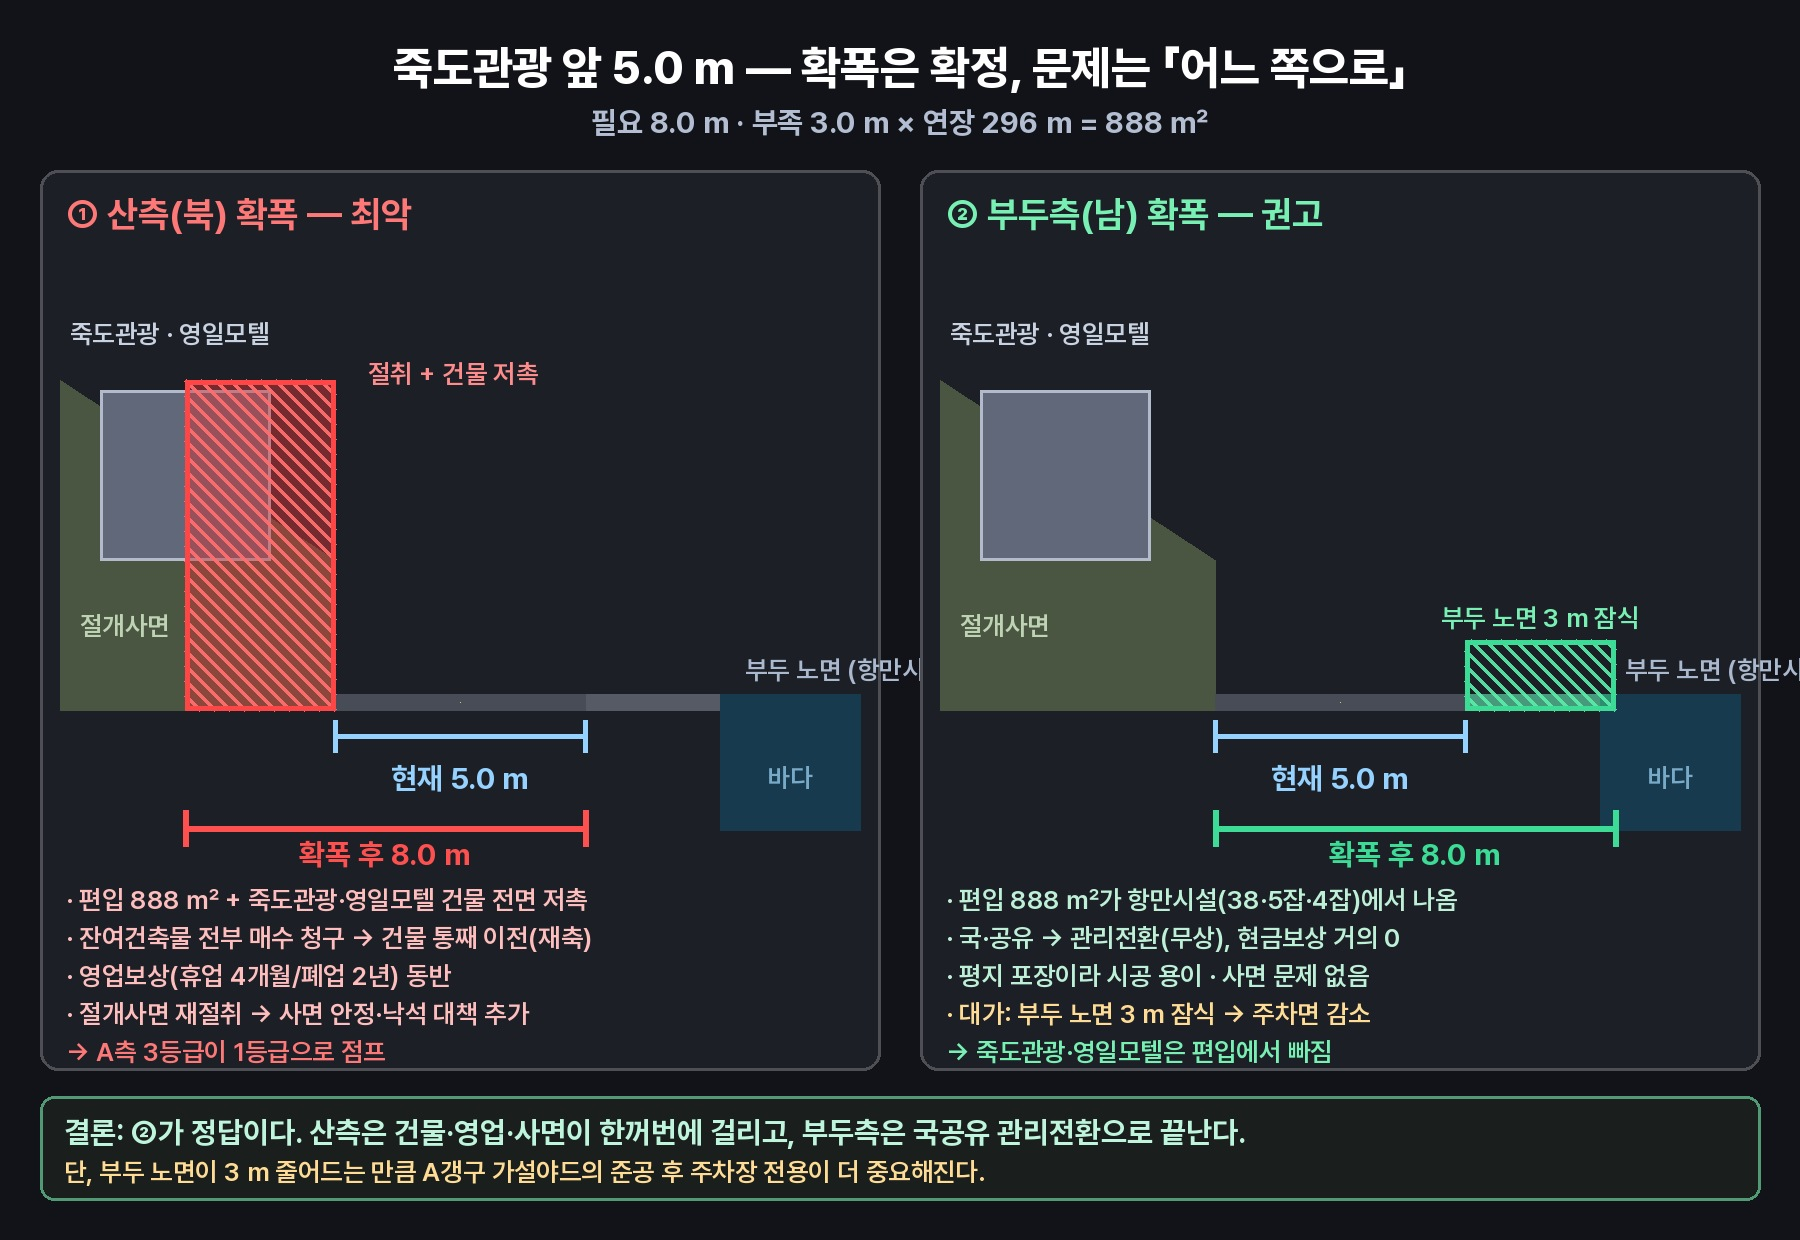
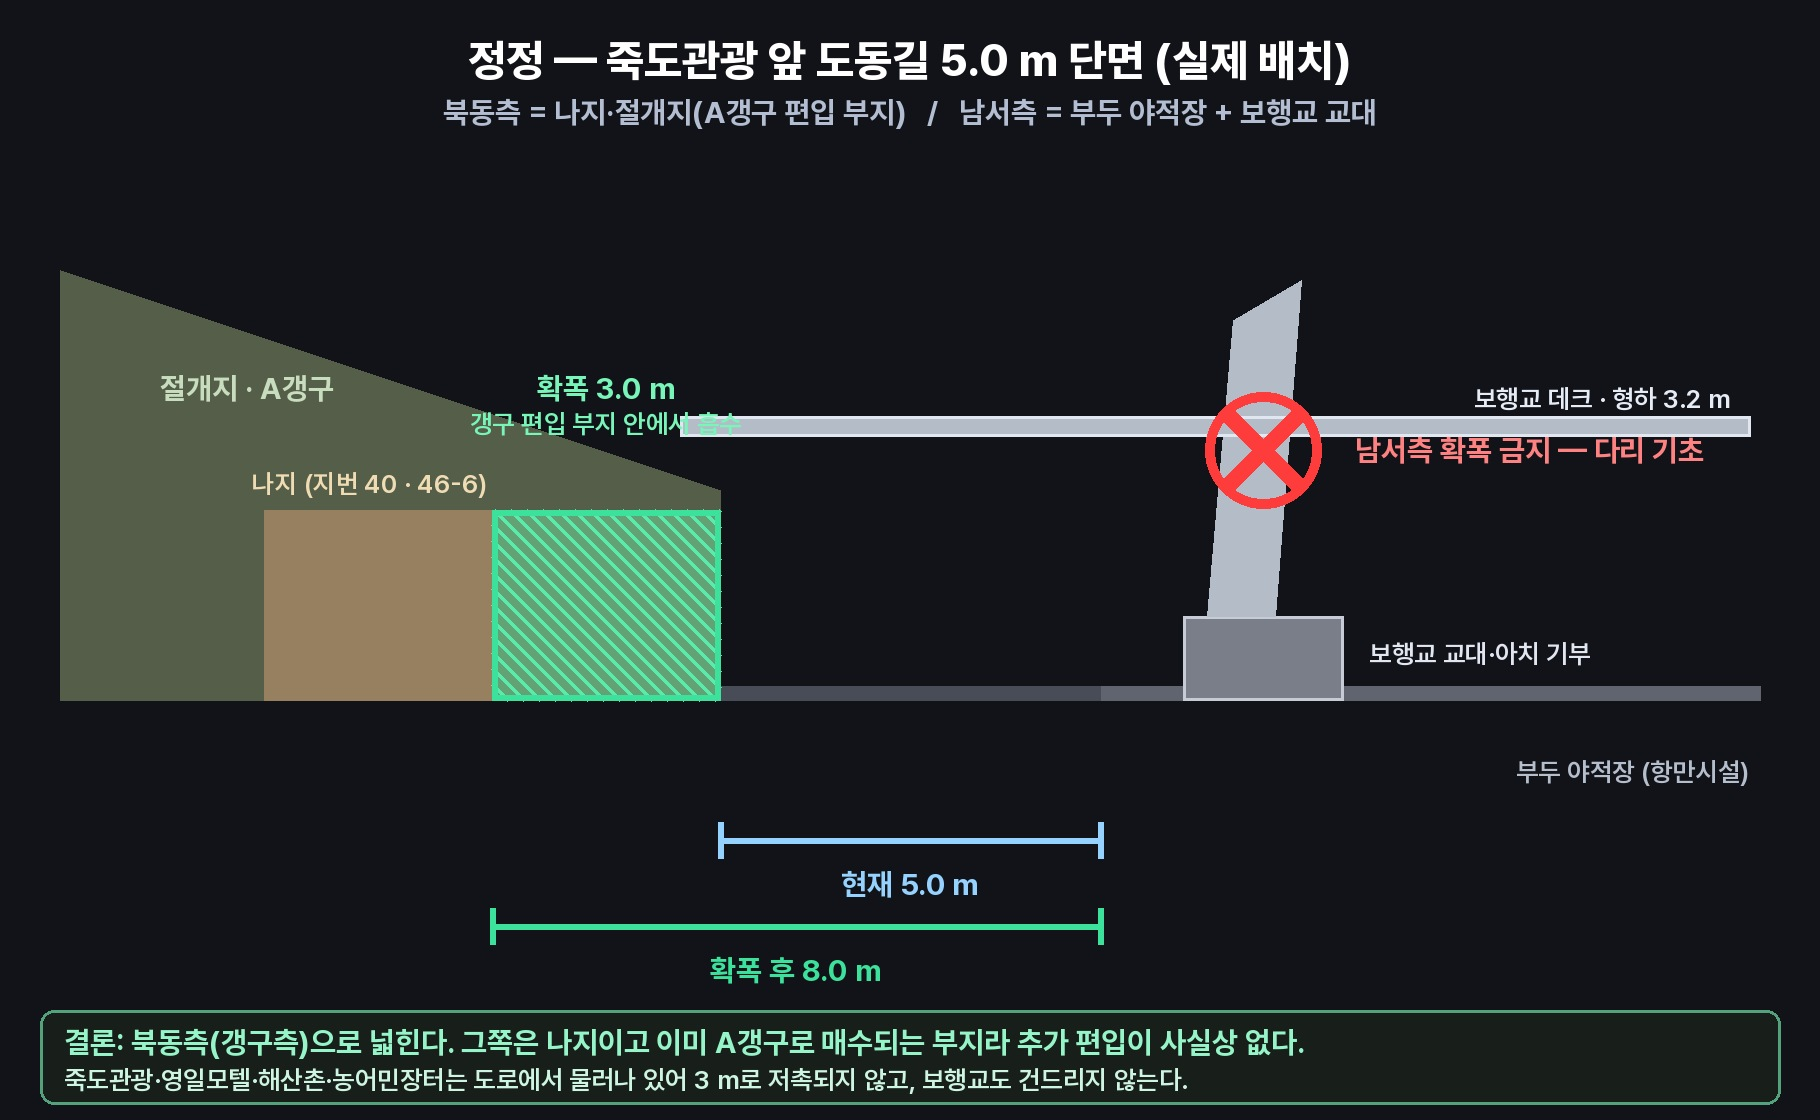
docs(ulleung-90): 13차 개정 · 12차 단면 오류 정정, 확폭은 갱구 부지에서 흡수
고해상 위성으로 죽도관광 앞 도동길의 양측 배치가 12차 가정과 다름이
확인됐다.

- 도로 남서측은 바다가 아니라 부두 야적장 + 보행교 교대·아치 기부다.
- 도로 북동측은 죽도관광 건물이 아니라 나지(지번 40·46-6), 곧 A갱구
  편입 부지 그 자체다. 죽도관광·영일모텔·해산촌·농어민장터는 도로에서
  물러나 있어 3 m 확폭으로 저촉되지 않는다.

따라서 확폭 방향은 북동측(갱구측)이고, 12차의 결론(부두측 확폭)과
경고(죽도관광·영일모텔의 1등급 점프)는 철회한다. 남서측은 보행교 기초를
직접 침범해 쓸 수 없고, 북동측 888 ㎡는 이미 A갱구로 매수되는 부지 안에서
나오므로 별도 편입이 아니라 같은 부지의 용도 배분이다.

A측 편입 최종: 지번 40·46-6·44·46-8이 갱구·야드·확폭분을 모두 흡수하고,
죽도관광·영일모텔·해산촌·농어민장터는 편입 없음, 보행교는 무관, 부두
야적장은 집산로 회랑만 관리전환. A측 편입은 갱구 원(0~60 m)에서 닫힌다.

maps/90_widen_direction.jpg 교체, 렌더러 dir.py 갱신.

Claude-Session: https://claude.ai/code/session_01WLmtZkRJypXJ4dZRWrn4rv

Changed region(s): [[0.0311, 0.25, 1.0, 1.0], [0.0311, 0.0312, 0.9644, 0.1875], [0.5289, 0.25, 0.6533, 0.2812]]

diff --git a/docs/research/ulleung-gukjido-90/dir.py b/docs/research/ulleung-gukjido-90/dir.py
@@ -2,74 +2,55 @@
 from PIL import Image, ImageDraw, ImageFont
 W_="/tmp/claude-0/-home-user-desktop-tutorial/a49bfc76-9aab-5342-b75f-19862b631a3f/scratchpad"
 F=lambda n,w="Bold": ImageFont.truetype(f"{W_}/fonts/Pretendard-{w}.ttf",n)
-f22,f26,f30,f36,f46=F(22,"SemiBold"),F(26,"SemiBold"),F(30),F(36),F(46,"ExtraBold")
-W,H=1800,1240
+f24,f26,f30,f34,f44=F(24,"SemiBold"),F(26,"SemiBold"),F(30),F(34),F(44,"ExtraBold")
+W,H=1820,1120
 im=Image.new("RGB",(W,H),(17,19,24)); d=ImageDraw.Draw(im,"RGBA")
-PANEL=(28,31,38); ROCK=(74,86,66); BLD=(96,104,122); QUAY=(86,90,100); SEA=(24,58,78)
-def hatch(x0,y0,x1,y1,col,step=15,w=3):
+ROCK=(84,94,72); BARE=(150,128,96); YARD=(96,100,110); STEEL=(180,188,200); FDN=(122,126,136)
+def hatch(x0,y0,x1,y1,col,step=16,w=3):
     k=-(y1-y0)
-    while k < (x1-x0):
-        d.line([max(x0,x0+k), y0+max(0,-k), min(x1,x0+k+(y1-y0)), y0+min(y1-y0,(x1-x0)-k)],fill=col,width=w); k+=step
+    while k<(x1-x0):
+        d.line([max(x0,x0+k),y0+max(0,-k),min(x1,x0+k+(y1-y0)),y0+min(y1-y0,(x1-x0)-k)],fill=col,width=w); k+=step
+d.text((W//2,34),"정정 — 죽도관광 앞 도동길 5.0 m 단면 (실제 배치)",font=f44,fill=(255,255,255),anchor="ma")
+d.text((W//2,94),"북동측 = 나지·절개지(A갱구 편입 부지)   /   남서측 = 부두 야적장 + 보행교 교대",font=f30,fill=(180,190,210),anchor="ma")
 
-def panel(ox,oy,title,tcol,side,note):
-    PW,PH=840,900
-    d.rounded_rectangle([ox,oy,ox+PW,oy+PH],18,fill=PANEL,outline=(255,255,255,55),width=3)
-    d.text((ox+26,oy+22),title,font=f36,fill=tcol)
-    SC=50; base=oy+540; cx=ox+PW//2; half=5.0*SC/2   # 현재 5.0 m
-    # 산측(좌) : 절개사면 + 죽도관광
-    d.polygon([(ox+20,base),(cx-half,base),(cx-half,base-150),(ox+20,base-330)],fill=ROCK)
-    d.rectangle([ox+60,base-320,ox+230,base-150],fill=BLD,outline=(200,210,225,200),width=3)
-    d.text((ox+130,base-392),"죽도관광 · 영일모텔",font=f26,fill=(200,210,225),anchor="ma")
-    d.text((ox+40,base-100),"절개사면",font=f26,fill=(190,210,180))
-    # 부두측(우) : 평지 포장 + 바다
-    d.rectangle([cx+half,base-16,ox+PW-160,base],fill=QUAY)
-    d.rectangle([ox+PW-160,base-16,ox+PW-20,base+120],fill=SEA)
-    d.text((cx+half+160,base-56),"부두 노면 (항만시설)",font=f26,fill=(170,185,205))
-    d.text((ox+PW-90,base+52),"바다",font=f26,fill=(120,170,200),anchor="ma")
-    # 노면
-    d.rectangle([cx-half,base-16,cx+half,base],fill=(72,76,86))
-    d.line([cx,base-8,cx,base-8],fill=(230,220,120,220),width=4)
-    # 확폭 3.0 m
-    t=3.0*SC
-    if side=="rock":
-        x0,x1=cx-half-t,cx-half
-        d.rectangle([x0,base-330,x1,base],fill=(214,54,54,120)); hatch(x0,base-330,x1,base,(255,110,110,240))
-        d.rectangle([x0,base-330,x1,base],outline=(255,70,70,255),width=5)
-        d.text((x1+118,base-352),"절취 + 건물 저촉",font=f26,fill=(255,140,140),anchor="ma")
-    else:
-        x0,x1=cx+half,cx+half+t
-        d.rectangle([x0,base-16,x1,base],fill=(60,200,140,150)); hatch(x0,base-70,x1,base,(90,235,170,235))
-        d.rectangle([x0,base-70,x1,base],outline=(60,220,150,255),width=5)
-        d.text(((x0+x1)/2,base-108),"부두 노면 3 m 잠식",font=f26,fill=(120,240,180),anchor="ma")
-    # 치수
-    y=base+26
-    d.line([cx-half,y,cx+half,y],fill=(150,210,255,255),width=5)
-    for x in (cx-half,cx+half): d.line([x,y-16,x,y+16],fill=(150,210,255,255),width=5)
-    d.text((cx,y+24),"현재 5.0 m",font=f30,fill=(150,210,255),anchor="ma")
-    L,R=(cx-half-t,cx+half) if side=="rock" else (cx-half,cx+half+t)
-    c=(255,80,80,255) if side=="rock" else (60,220,150,255)
-    d.line([L,y+92,R,y+92],fill=c,width=6)
-    for x in (L,R): d.line([x,y+74,x,y+110],fill=c,width=6)
-    d.text(((L+R)/2,y+100),"확폭 후 8.0 m",font=f30,fill=c[:3],anchor="ma")
-    yy=oy+PH-186
-    for t2,c2 in note:
-        d.text((ox+26,yy),t2,font=f26,fill=c2); yy+=38
-
-d.text((W//2,40),"죽도관광 앞 5.0 m — 확폭은 확정, 문제는 「어느 쪽으로」",font=f46,fill=(255,255,255),anchor="ma")
-d.text((W//2,104),"필요 8.0 m · 부족 3.0 m × 연장 296 m = 888 ㎡",font=f30,fill=(180,190,210),anchor="ma")
-panel(40,170,"① 산측(북) 확폭 — 최악",(255,120,120),"rock",
- [("· 편입 888 ㎡ + 죽도관광·영일모텔 건물 전면 저촉",(255,190,190)),
-  ("· 잔여건축물 전부 매수 청구 → 건물 통째 이전(재축)",(255,190,190)),
-  ("· 영업보상(휴업 4개월/폐업 2년) 동반",(255,190,190)),
-  ("· 절개사면 재절취 → 사면 안정·낙석 대책 추가",(255,190,190)),
-  ("→ A측 3등급이 1등급으로 점프",(255,120,120))])
-panel(920,170,"② 부두측(남) 확폭 — 권고",(120,240,180),"quay",
- [("· 편입 888 ㎡가 항만시설(38·5잡·4잡)에서 나옴",(190,240,215)),
-  ("· 국·공유 → 관리전환(무상), 현금보상 거의 0",(190,240,215)),
-  ("· 평지 포장이라 시공 용이 · 사면 문제 없음",(190,240,215)),
-  ("· 대가: 부두 노면 3 m 잠식 → 주차면 감소",(255,220,150)),
-  ("→ 죽도관광·영일모텔은 편입에서 빠짐",(120,240,180))])
-d.rounded_rectangle([40,1096,W-40,1200],14,fill=(26,30,28),outline=(120,240,180,150),width=3)
-d.text((64,1114),"결론: ②가 정답이다. 산측은 건물·영업·사면이 한꺼번에 걸리고, 부두측은 국공유 관리전환으로 끝난다.",font=f30,fill=(190,245,220))
-d.text((64,1156),"단, 부두 노면이 3 m 줄어드는 만큼 A갱구 가설야드의 준공 후 주차장 전용이 더 중요해진다.",font=f26,fill=(255,220,150))
-im.save(f"{W_}/out/92_widen_side.jpg",quality=93); print("ok")
+SC=76; base=700; cx=W//2; half=5.0*SC/2
+# 북동(좌): 절개지 + 나지 = 갱구 부지
+d.polygon([(60,base),(cx-half,base),(cx-half,base-210),(60,base-430)],fill=ROCK)
+d.rectangle([cx-half-6.0*SC,base-190,cx-half,base],fill=BARE)
+d.text((cx-half-4.6*SC,base-232),"나지 (지번 40 · 46-6)",font=f26,fill=(240,220,180),anchor="ma")
+d.text((160,base-330),"절개지 · A갱구",font=f30,fill=(200,220,190))
+# 남서(우): 부두 야적장 + 다리
+d.rectangle([cx+half,base-14,W-60,base],fill=YARD)
+d.text((W-70,base+56),"부두 야적장 (항만시설)",font=f26,fill=(180,190,205),anchor="ra")
+fx0,fx1=cx+half+1.1*SC, cx+half+3.2*SC
+d.rectangle([fx0,base-84,fx1,base],fill=FDN,outline=(215,220,230,210),width=3)
+d.text((fx1+26,base-46),"보행교 교대·아치 기부",font=f26,fill=(225,230,240),anchor="lm")
+d.polygon([(fx0+24,base-84),(fx0+50,base-380),(fx0+118,base-420),(fx0+92,base-84)],fill=STEEL)
+dy=base-3.2*SC-20
+d.rectangle([cx-half-40,dy-20,W-70,dy],fill=STEEL,outline=(232,238,248,220),width=3)
+d.text((W-90,dy-54),"보행교 데크 · 형하 3.2 m",font=f26,fill=(230,236,246),anchor="ra")
+# 노면 + 확폭(북동측)
+d.rectangle([cx-half,base-14,cx+half,base],fill=(72,76,86))
+t=3.0*SC; x0,x1=cx-half-t,cx-half
+d.rectangle([x0,base-190,x1,base],fill=(40,200,140,120)); hatch(x0,base-190,x1,base,(90,240,175,240))
+d.rectangle([x0,base-190,x1,base],outline=(60,225,155,255),width=6)
+d.text(((x0+x1)/2,base-330),"확폭 3.0 m",font=f30,fill=(120,245,185),anchor="ma")
+d.text(((x0+x1)/2,base-292),"갱구 편입 부지 안에서 흡수",font=f26,fill=(120,245,185),anchor="ma")
+# X on bridge side
+RX=cx+half+2.15*SC; RY=base-250
+for ax,ay in ((1,1),(1,-1)):
+    d.line([(RX-40*ax,RY-40*ay),(RX+40*ax,RY+40*ay)],fill=(255,60,60,255),width=16)
+d.ellipse([RX-58,RY-58,RX+58,RY+58],outline=(255,60,60,255),width=10)
+d.text((RX+92,RY),"남서측 확폭 금지 — 다리 기초",font=f30,fill=(255,130,130),anchor="lm")
+# 치수
+y=base+140
+d.line([cx-half,y,cx+half,y],fill=(150,210,255,255),width=6)
+for x in (cx-half,cx+half): d.line([x,y-18,x,y+18],fill=(150,210,255,255),width=6)
+d.text((cx,y+26),"현재 5.0 m",font=f30,fill=(150,210,255),anchor="ma")
+d.line([x0,y+86,cx+half,y+86],fill=(60,225,155,255),width=6)
+for x in (x0,cx+half): d.line([x,y+68,x,y+104],fill=(60,225,155,255),width=6)
+d.text(((x0+cx+half)/2,y+112),"확폭 후 8.0 m",font=f30,fill=(60,225,155),anchor="ma")
+d.rounded_rectangle([40,1010,W-40,1104],14,fill=(24,30,26),outline=(120,240,180,160),width=3)
+d.text((64,1024),"결론: 북동측(갱구측)으로 넓힌다. 그쪽은 나지이고 이미 A갱구로 매수되는 부지라 추가 편입이 사실상 없다.",font=f30,fill=(150,245,200))
+d.text((64,1064),"죽도관광·영일모텔·해산촌·농어민장터는 도로에서 물러나 있어 3 m로 저촉되지 않고, 보행교도 건드리지 않는다.",font=f26,fill=(205,245,225))
+im.save(f"{W_}/out/97_section_final.jpg",quality=93); print("ok")

diff --git a/docs/research/ulleung-gukjido-90/README.md b/docs/research/ulleung-gukjido-90/README.md
@@ -15,6 +15,26 @@
 
 ## 개정 이력
 
+- **2026-09-06 13차 개정 — 12차 단면 오류 정정. 확폭은 갱구 부지 안에서 흡수된다.**
+  결과는 [`maps/90_widen_direction.jpg`](./maps)(12차 도판을 대체). 사용자가 제공한 고해상 위성으로
+  죽도관광 앞 도동길의 **양측 배치가 12차와 다르다**는 것이 확인됐다.
+
+  | | 12차에서 가정한 것 | **실제** |
+  |---|---|---|
+  | 도로 남서측 | 바다 | **부두 야적장 + 보행교 교대·아치 기부** |
+  | 도로 북동측 | 죽도관광 건물이 도로에 접함 | **나지(지번 40·46-6) = A갱구 편입 부지 그 자체** |
+
+  도동길은 부두 야적장과 나지 사이를 지나고, 그 나지에 **40·46-6·44·46-8** 지번이 붙어 있으며 A갱구가 그 자리다.
+  **죽도관광·영일모텔·해산촌·농어민장터는 도로에서 물러나 있어 3 m 확폭으로 저촉되지 않는다.**
+
+  **따라서 확폭 방향은 북동측(갱구측)이고, 12차의 결론(부두측 확폭)과 경고(죽도관광·영일모텔의 1등급 점프)는 철회한다.**
+  남서측은 보행교 교대·아치 기초를 직접 침범하므로 쓸 수 없고, 북동측 888 ㎡는 이미 A갱구로 매수되는 부지 안에서
+  나오므로 **별도 편입이 아니라 같은 부지의 용도 배분**이다. 갱구 야드(반경 33.6~44.5 m)가 그 자리를 이미 덮는다.
+
+  **A측 편입 최종:** 지번 **40·46-6·44·46-8**(나지)이 갱구·야드·확폭분을 모두 흡수하고,
+  **죽도관광·영일모텔·해산촌·농어민장터는 편입 없음**, **보행교는 무관**, 부두 야적장은 집산로 회랑만 관리전환.
+  즉 **A측 편입은 갱구 원(0~60 m) 안에서 닫힌다.**
+
 - **2026-09-06 12차 개정 — 죽도관광 앞 폭 5.0 m 확인 · 확폭 확정 및 방향 분기.**
   결과는 [`maps/90_widen_direction.jpg`](./maps). 사용자 현장 확인으로 ③ 우회로의 죽도관광 앞 구간 폭이
   **5.0 m**로 확정됐다. 15~25 t 덤프 폭이 법정 최대 2.5 m이므로 2대 교행 순수 폭이 5.0 m,
